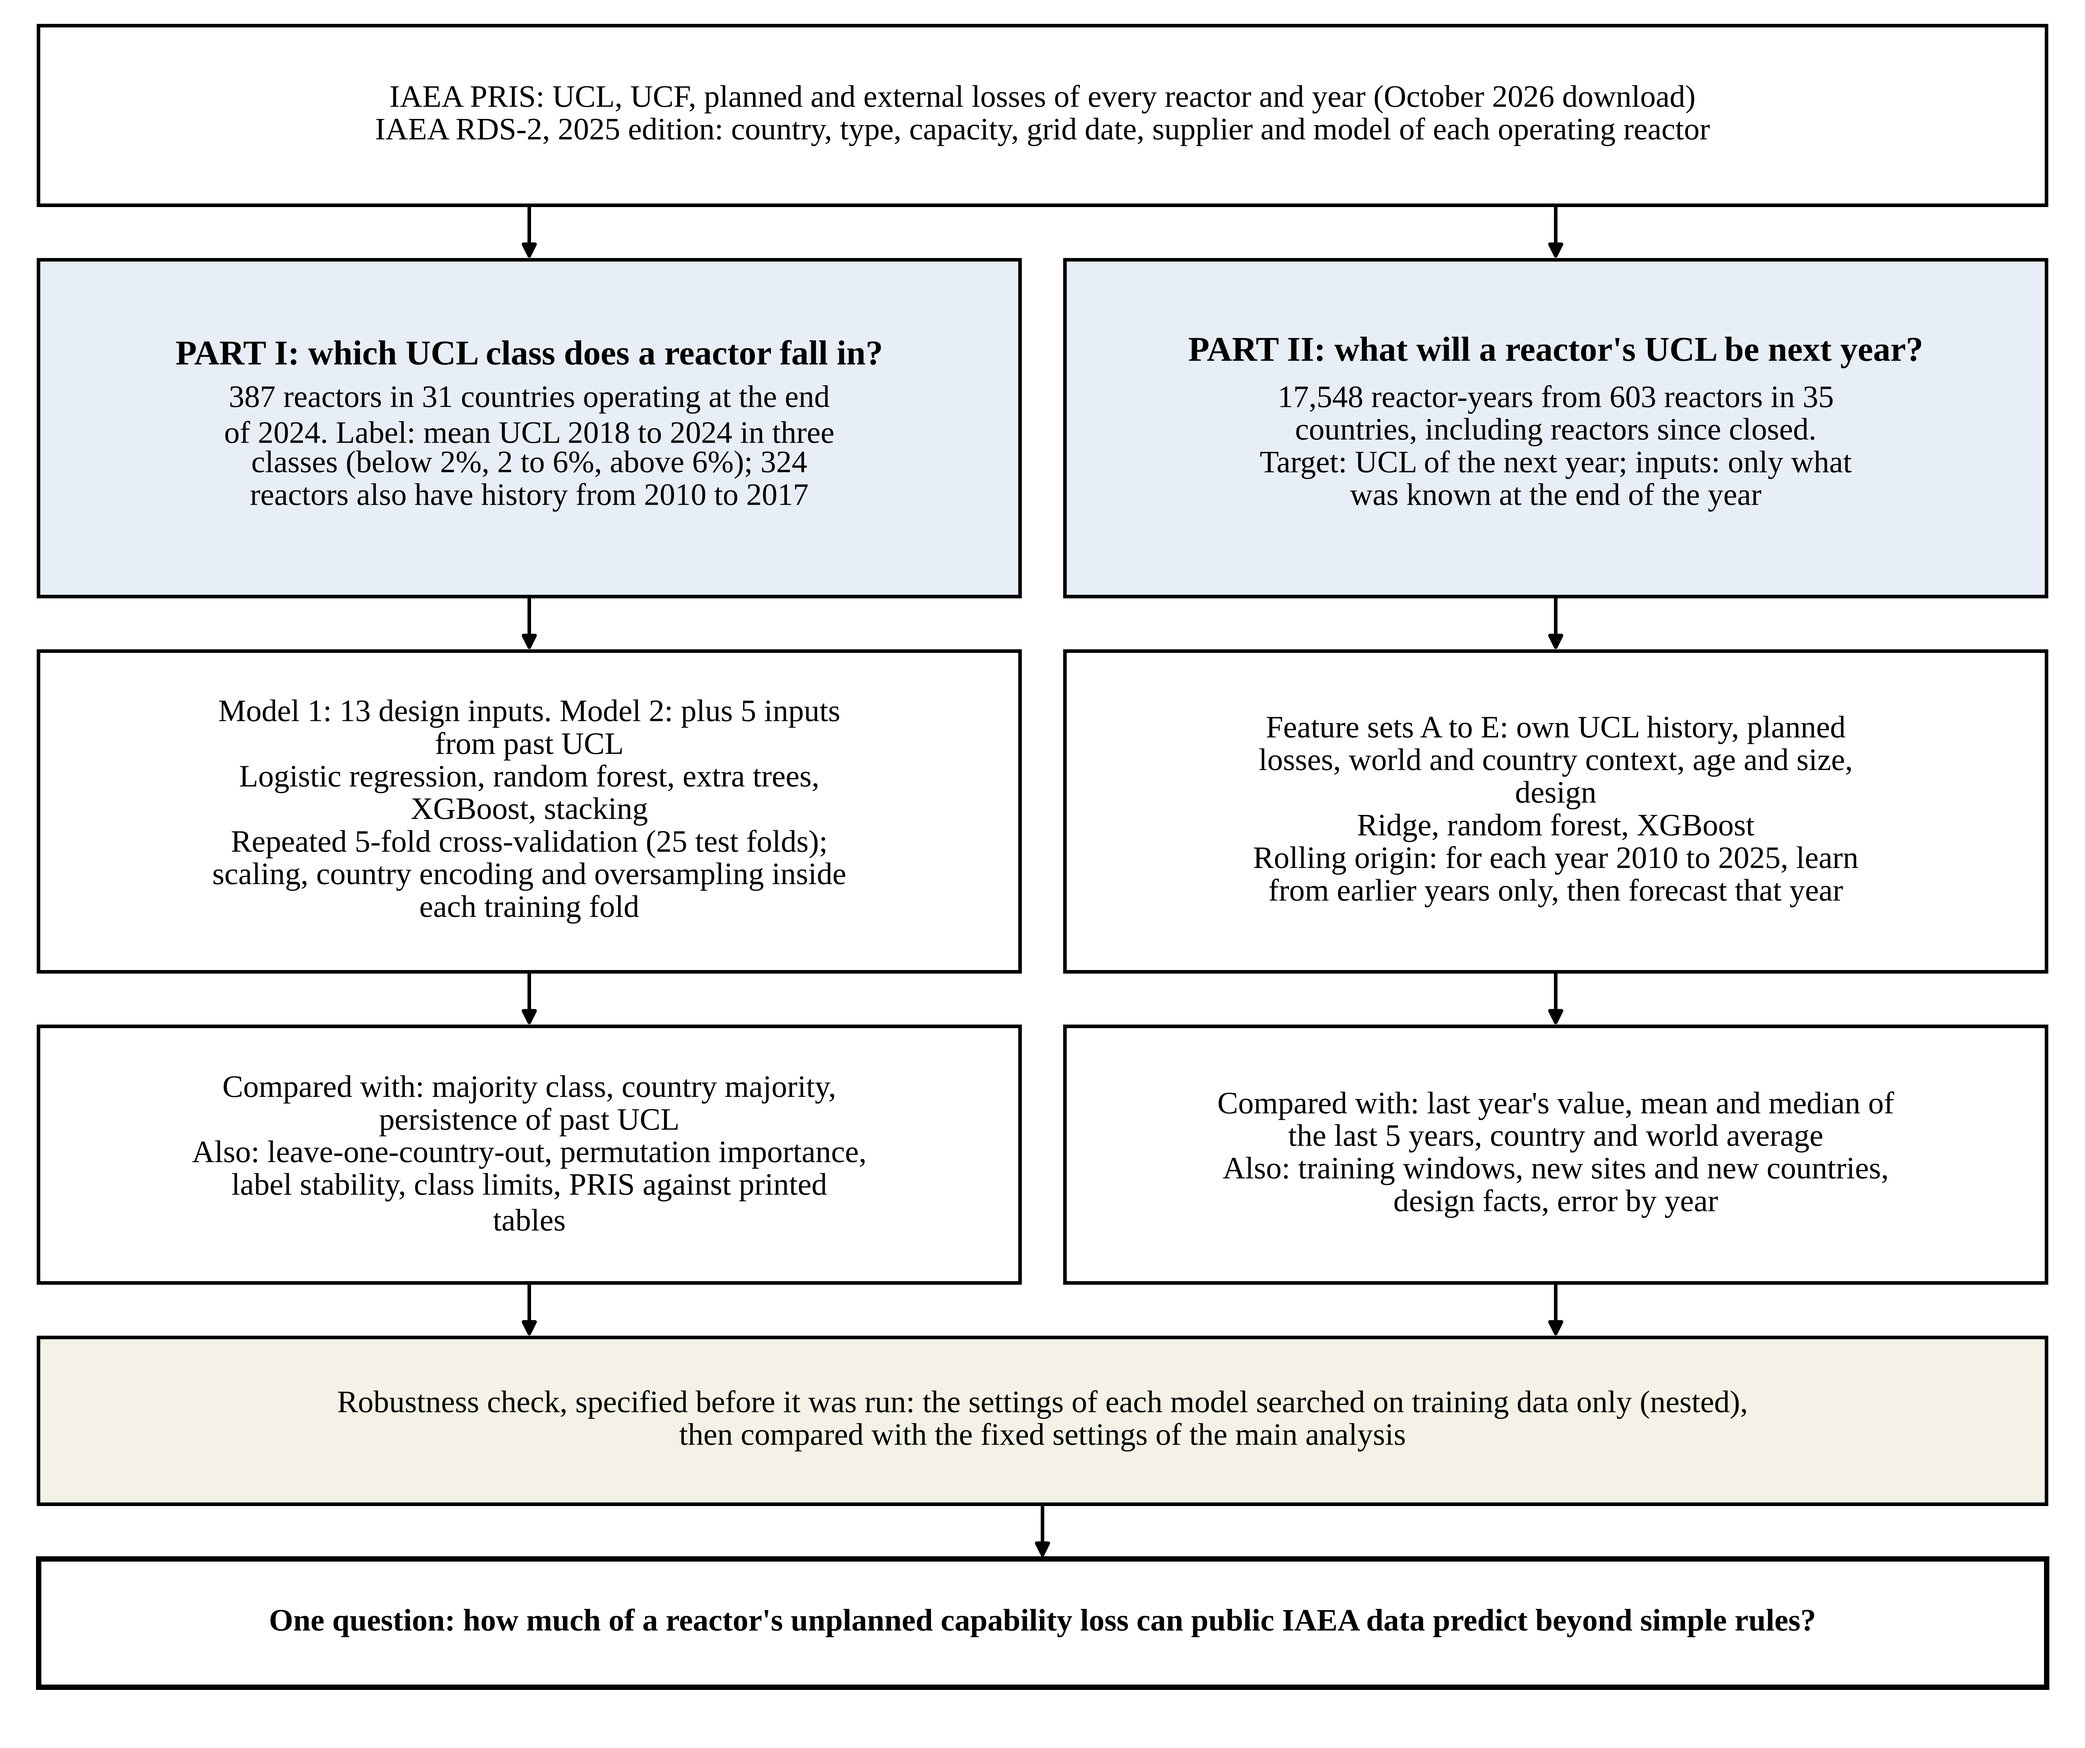
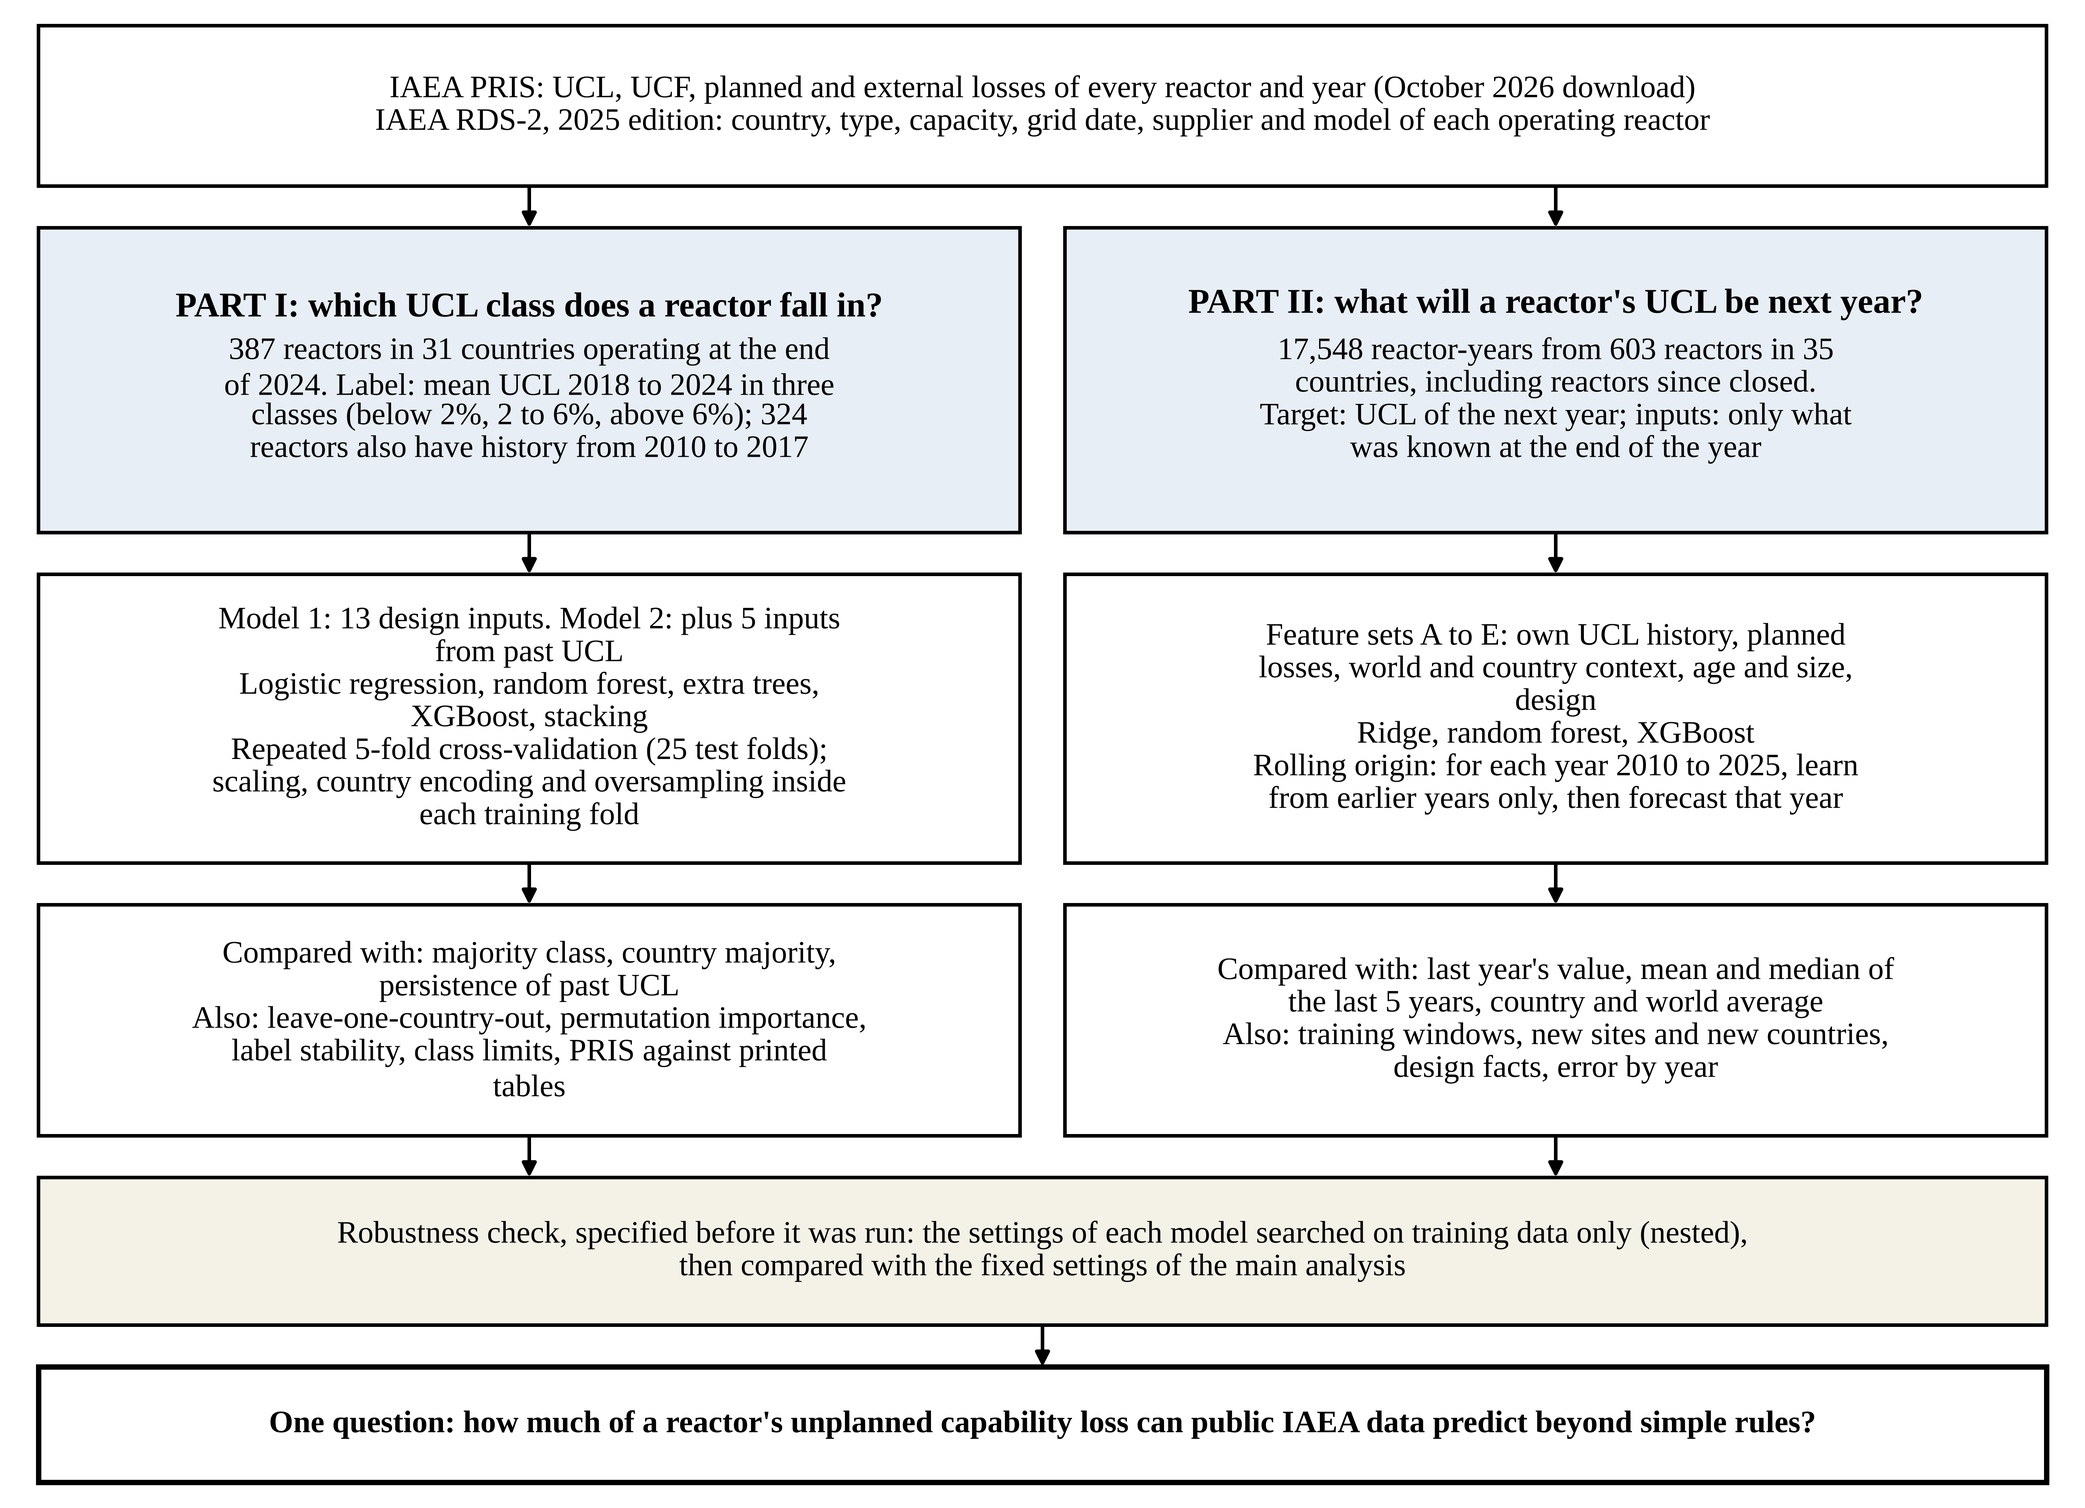
Overview figure: more compact layout so it fits the page with the introduction
Claude-Session: https://claude.ai/code/session_01SdHLwPeBzta9vA6c7qYpuN

diff --git a/research/UCL_Paper_Figures_V6.py b/research/UCL_Paper_Figures_V6.py
@@ -50,7 +50,7 @@ def fig_overview():
     ps = json.load(open(os.path.join(FC, "panel_summary.json")))
     hist = pd.read_excel(PF.XLSX, sheet_name="HISTORY")
     n_all, n_sub = len(PF.FINAL), int((hist.Model2_Subset == 1).sum())
-    W, H = 6.5, 5.45
+    W, H = 6.5, 4.70
     fig = plt.figure(figsize=(W, H))
     ax = fig.add_axes([0, 0, 1, 1])
     ax.set_xlim(0, W)
@@ -78,18 +78,18 @@ def fig_overview():
         ax.annotate("", xy=(x1, y1), xytext=(x0, y0),
                     arrowprops=dict(arrowstyle="-|>", lw=0.8, color="black", shrinkA=0, shrinkB=0, mutation_scale=6.5))
 
-    L, R, G = 0.12, W - 0.12, 0.17
+    L, R, G = 0.12, W - 0.12, 0.13
     mid = W / 2
     gap = 0.14
     xL0, xL1 = L, mid - gap / 2
     xR0, xR1 = mid + gap / 2, R
     cL, cR = (xL0 + xL1) / 2, (xR0 + xR1) / 2
     t1 = H - 0.08
-    t0 = t1 - 0.56
+    t0 = t1 - 0.5
     box(L, R, t0, t1, "IAEA PRIS: UCL, UCF, planned and external losses of every reactor and year (October 2026 download)\n"
         "IAEA RDS-2, 2025 edition: country, type, capacity, grid date, supplier and model of each operating reactor", wrap=118)
     d1 = t0 - G
-    d0 = d1 - 1.05
+    d0 = d1 - 0.95
     arrow(cL, t0, cL, d1)
     arrow(cR, t0, cR, d1)
     box(xL0, xL1, d0, d1, f"PART I: which UCL class does a reactor fall in?\n{n_all} reactors in {PF.FINAL.Country.nunique()} countries operating at the end of 2024. "
@@ -97,7 +97,7 @@ def fig_overview():
     box(xR0, xR1, d0, d1, f"PART II: what will a reactor's UCL be next year?\n{ps['rows']:,} reactor-years from {ps['units']} reactors in {ps['countries']} countries, "
         "including reactors since closed. Target: UCL of the next year; inputs: only what was known at the end of the year", bold_first=True, wrap=50, fc="#E7EEF5")
     m1 = d0 - G
-    m0 = m1 - 1.0
+    m0 = m1 - 0.9
     arrow(cL, d0, cL, m1)
     arrow(cR, d0, cR, m1)
     box(xL0, xL1, m0, m1, "Model 1: 13 design inputs. Model 2: plus 5 inputs from past UCL\n"
@@ -107,7 +107,7 @@ def fig_overview():
         "Ridge, random forest, XGBoost\n"
         "Rolling origin: for each year 2010 to 2025, learn from earlier years only, then forecast that year", wrap=52)
     c1 = m0 - G
-    c0 = c1 - 0.8
+    c0 = c1 - 0.72
     arrow(cL, m0, cL, c1)
     arrow(cR, m0, cR, c1)
     box(xL0, xL1, c0, c1, "Compared with: majority class, country majority, persistence of past UCL\n"
@@ -115,13 +115,13 @@ def fig_overview():
     box(xR0, xR1, c0, c1, "Compared with: last year's value, mean and median of the last 5 years, country and world average\n"
         "Also: training windows, new sites and new countries, design facts, error by year", wrap=52)
     b1 = c0 - G
-    b0 = b1 - 0.52
+    b0 = b1 - 0.46
     arrow(cL, c0, cL, b1)
     arrow(cR, c0, cR, b1)
     box(L, R, b0, b1, "Robustness check, specified before it was run: the settings of each model searched on training data only (nested), "
         "then compared with the fixed settings of the main analysis", wrap=118, fc="#F4F1E6")
     q1 = b0 - G
-    q0 = q1 - 0.4
+    q0 = q1 - 0.36
     arrow(mid, b0, mid, q1)
     box(L, R, q0, q1, "One question: how much of a reactor's unplanned capability loss can public IAEA data predict beyond simple rules?", bold=True, wrap=118)
     assert q0 >= 0.06, "overview does not fit: raise H (bottom edge at %.2f)" % q0
